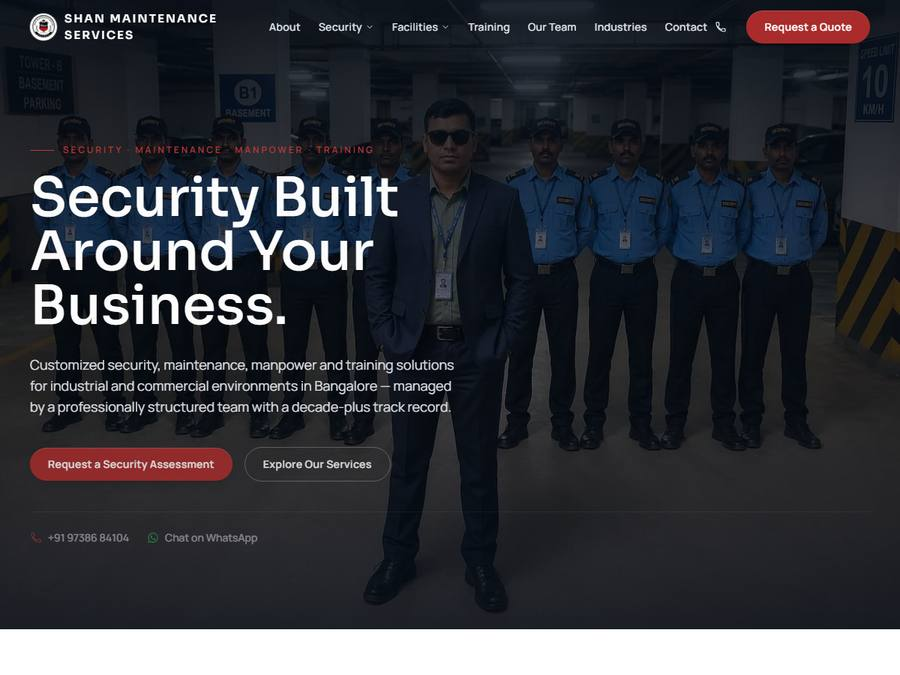
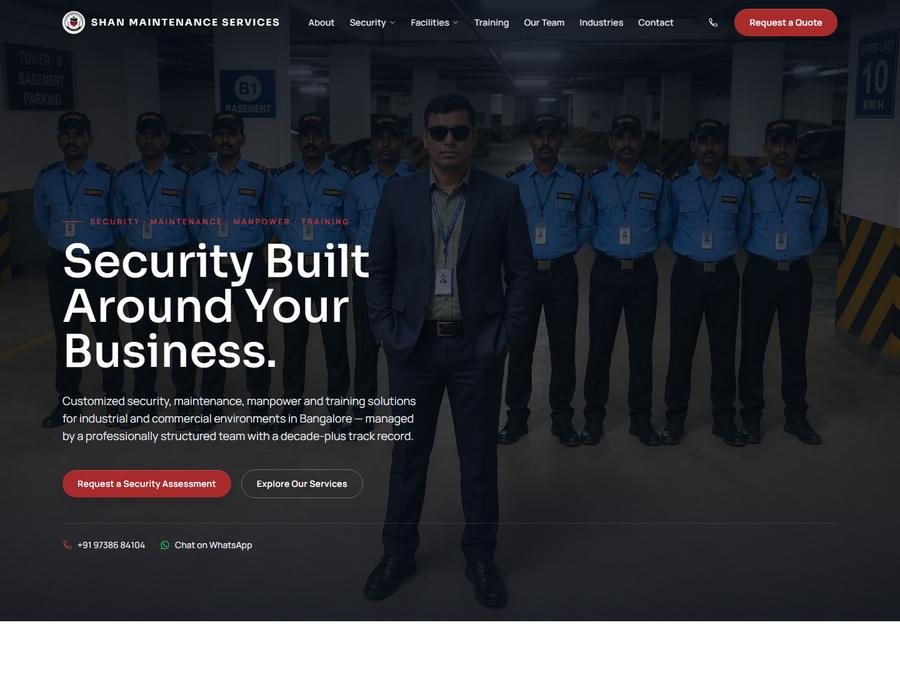
Work: refresh screenshots, add Sarakki/Decor Party, ship Shan Maintenance
- casa-paradiso.jpg: re-captured clean — the previous cover had a modal
  dimmer washed over it
- sarakki-homes.jpg + the-decor-party.jpg: added (Sarakki keeps its
  Ongoing stamp over the shot; Decor Party gets a real summary too)
- Shan Maintenance Services: now on its own domain
  (shanmaintenanceservices.in), so it loses the Ongoing stamp and gets a
  fresh screenshot; Visit link updated off the old vercel.app URL

diff --git a/src/data/projects.js b/src/data/projects.js
@@ -144,6 +144,7 @@ const projectList = [
       'Property consultancy site for a Bengaluru real estate firm — bank-auction, resale, and rental listings, backed by an admin dashboard for managing enquiries.',
     live: 'http://sarakki-homes-x191.vercel.app/',
     status: 'ongoing',
+    screenshot: true,
   },
   {
     slug: 'zafoor-clinic',
@@ -195,8 +196,7 @@ const projectList = [
     stack: [],
     summary:
       'Enquiry site for a Bengaluru industrial security and facilities firm — security, housekeeping, and training services, with quote requests by form, phone, or WhatsApp.',
-    live: 'https://shan-maintenance-services.vercel.app/',
-    status: 'ongoing',
+    live: 'https://www.shanmaintenanceservices.in/',
     screenshot: true,
   },
   {
@@ -220,7 +220,10 @@ const projectList = [
     industry: 'Event Management',
     year: '2026',
     stack: [],
+    summary:
+      'Event-decor and celebrations site for a styling company — themed decor packages, a gallery, a wishlist, and online booking for weddings, showers, and private events.',
     live: 'https://www.thedecorparty.com/',
+    screenshot: true,
   },
   {
     slug: 'cauvery-resort',
